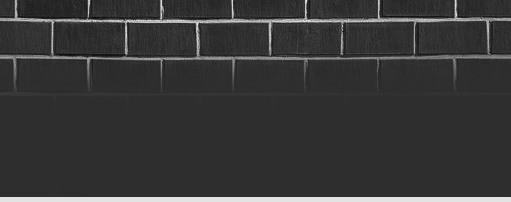
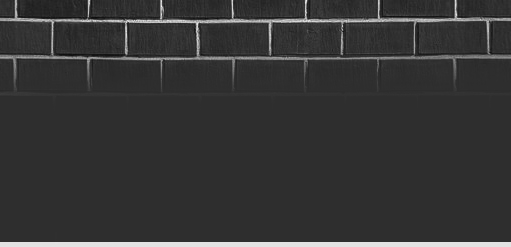
Changed the look up a bit again

Changed region(s): [[0.0, 0.0297, 1.0, 0.3861], [0.0, 0.9505, 1.0, 0.9802], [0.0294, 0.3267, 0.0587, 0.3564]]

diff --git a/jayd3e/static/css/style.css b/jayd3e/static/css/style.css
@@ -9,16 +9,23 @@ div.centered {
 */
 .header {
     width: 100%;
-    height: 202px;
+    height: 247px;
     background-image: url(../img/header_bg.png);
     background-repeat: repeat-x;	
 }
+.header div.top {
+	width: 960px;
+	float: left;
+}
+.header div.bot {
+	width: 960px;
+	float: left;
+}
 .header ul.main {
     list-style: none;
-    margin-left: 20px;
-    margin-top: 158px;
     height: 45px;
     float: left;
+    margin-top: 5px;
 }
 .header ul.main li {
     display: inline;
@@ -36,8 +43,8 @@ div.centered {
 .header ul.main li a span {
     padding-right: 11px;
     padding-left: 4px;
-    padding-bottom: 13px;
-    padding-top: 11px;
+    padding-bottom: 11px;
+    padding-top: 13px;
     background-image: url(../img/header_main_nav_right.png);
     background-position: 100% -45px;
     background-repeat: no-repeat;
@@ -67,24 +74,29 @@ div.centered {
     height: 45px;
     background-image: url(../img/blog_logo.png);
     background-position: left;
-    margin-left: 10px;
-    margin-top: 157px;
     float: left;
+    margin-top: 4px;
+    margin-left: 5px;
 }
 .logo:hover {
     background-position: right;
 }
-.header div.twitter_bg {
-    list-style: none;
-    float: right;
+.header div.header_graphic {
     background-image:  url(../img/header_graphic.png);
-    width: 511px;
-    height: 202px;
+    width: 417px;
+    height: 198px;
+    margin: 0 auto;
+}
+div.shoutbox {
+	float: left;
+	width: 160px;
+	margin-left: 300px;
+	margin-top: 80px;
 }
 .auth_span {
     float: right;
-    margin-right: 10px;
-    margin-top: 170px;
+    margin-top: 20px;
+    margin-right: 5px;
 }
 .auth_span a {
 

diff --git a/jayd3e/static/css/type.css b/jayd3e/static/css/type.css
@@ -50,3 +50,8 @@ h1, h2, a, span, p, label, div, ul, ol {
 .operations {
     font-size: 80%;
 }
+div.shoutbox {
+	text-align: center;
+	font-size: 110%;
+	color: #2e2e2e;
+}
